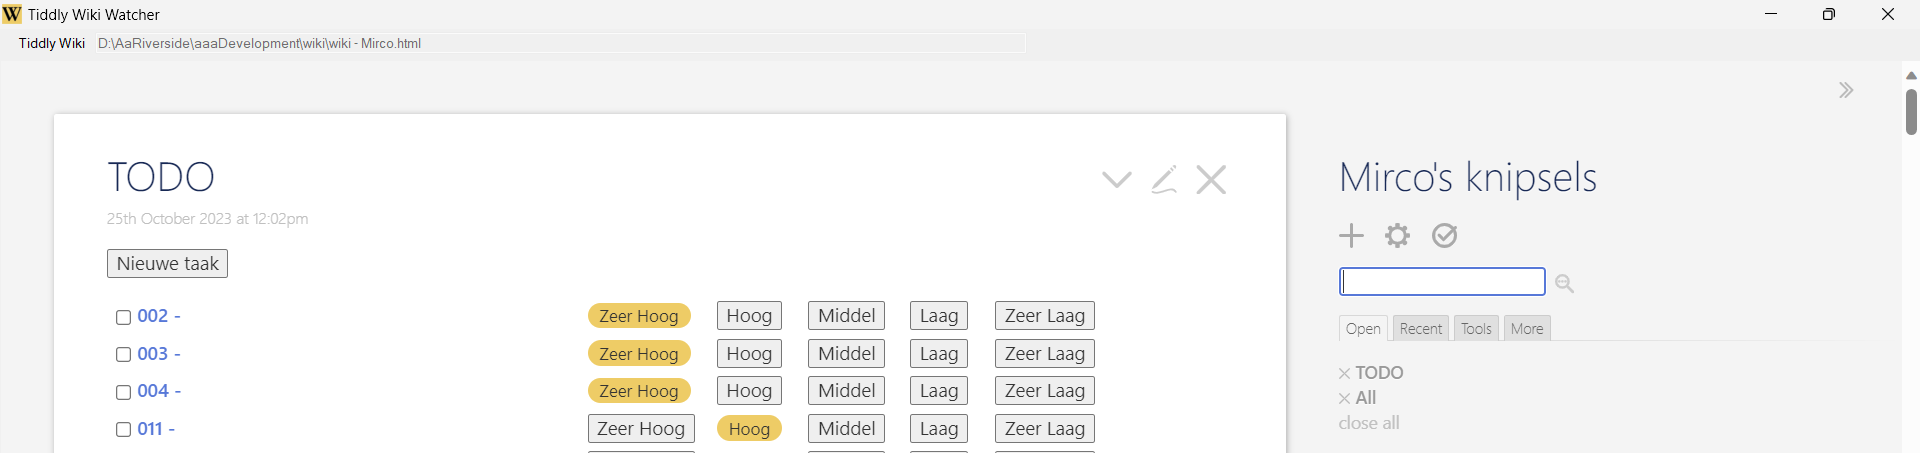
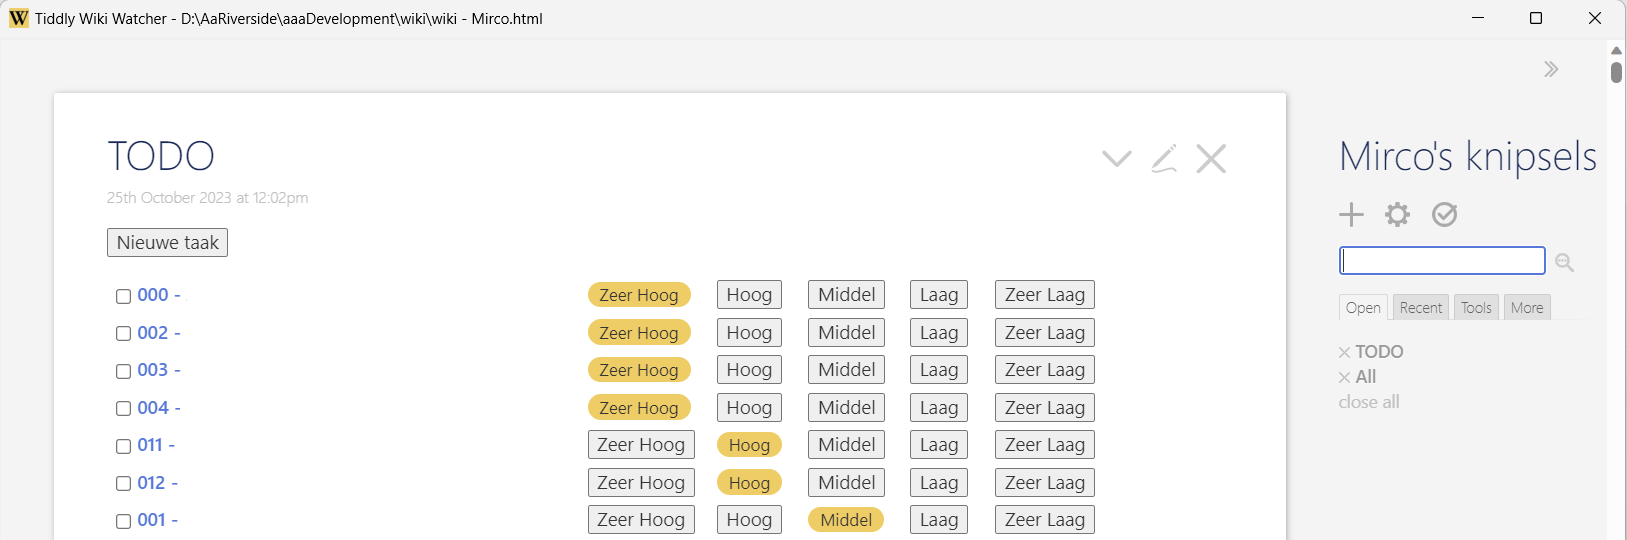
fix: use full window for WebView-browser.

diff --git a/src/TiddlyWikiWatcher/MainForm.cs b/src/TiddlyWikiWatcher/MainForm.cs
@@ -12,6 +12,8 @@ namespace TiddlyWikiWatcher
 {
     public partial class MainForm : Form //, ITiddlyWikiWatcherLogger
     {
+        private const string FormTitle = "Tiddly Wiki Watcher";
+
         private string singleInstanceMutexName;
         private Mutex singleInstanceMutex;
         private bool _watching = false;
@@ -24,7 +26,12 @@ namespace TiddlyWikiWatcher
 
             _downloadHandler = null;
 
+            this.Text = FormTitle;
             FilenameTextbox.Text = AppSettings_LoadFilename();
+
+            webView.Visible = false;
+            webView.Location = new System.Drawing.Point(0, 0);
+            webView.Size = this.ClientSize - new System.Drawing.Size(webView.Location);
 
             WindowState = FormWindowState.Maximized;
         }
@@ -171,13 +178,19 @@ namespace TiddlyWikiWatcher
                 MessageBox.Show("Filename is opened in another instance of Tiddly Wiki Watcher.");
                 return;
             }
+            AppSettings_SaveFilename(filename);
 
-            FilenameOpen.Visible = false;
-            FilenameOpen.Enabled = false;
+            FilenameLabel.Visible = false;
+            FilenameTextbox.Visible = false;
             FilenameTextbox.Enabled = false;
             FilenameSelect.Visible = false;
             FilenameSelect.Enabled = false;
-            AppSettings_SaveFilename(filename);
+            FilenameOpen.Visible = false;
+            FilenameOpen.Enabled = false;
+
+            this.Text = FormTitle + " - " + filename;
+            webView.Visible = true;
+            webView.Size = this.ClientSize - new System.Drawing.Size(webView.Location);
 
             // var downloadsPath = KnownFolderPaths.KnownFolders.GetPath(KnownFolderPaths.KnownFolder.Downloads);
             _watching = true;

diff --git a/src/TiddlyWikiWatcher/MainForm.Designer.cs b/src/TiddlyWikiWatcher/MainForm.Designer.cs
@@ -83,9 +83,9 @@
             this.webView.AllowExternalDrop = true;
             this.webView.CreationProperties = null;
             this.webView.DefaultBackgroundColor = System.Drawing.Color.White;
-            this.webView.Location = new System.Drawing.Point(1, 32);
+            this.webView.Location = new System.Drawing.Point(0, 0);
             this.webView.Name = "webView";
-            this.webView.Size = new System.Drawing.Size(1119, 598);
+            this.webView.Size = new System.Drawing.Size(1119, 627);
             this.webView.TabIndex = 5;
             this.webView.ZoomFactor = 1D;
             this.webView.CoreWebView2InitializationCompleted += new System.EventHandler<Microsoft.Web.WebView2.Core.CoreWebView2InitializationCompletedEventArgs>(this.webView_CoreWebView2InitializationCompleted);
